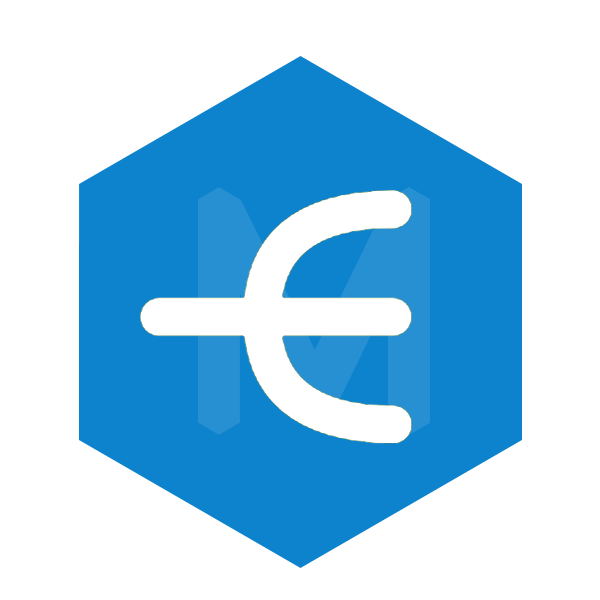
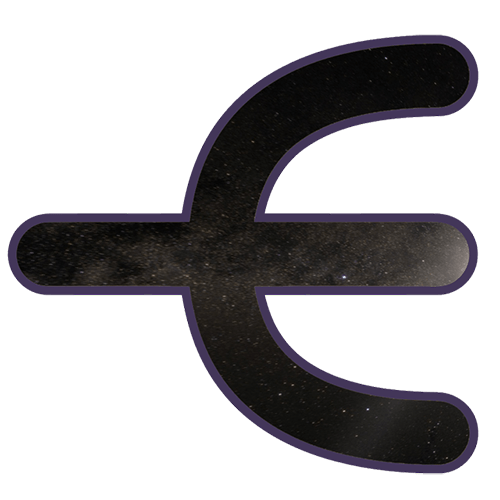
feat: rename extension to Markmap Universe

diff --git a/README.md b/README.md
@@ -1,23 +1,31 @@
-<img src="https://raw.githubusercontent.com/markmap-universe/logo/master/hexo-markmap-logo.png" alt="Hexo logo" width="100" height="100" align="right" />
+<img src="https://raw.githubusercontent.com/markmap-universe/logo/master/universe.png" alt="Markmap Universe logo" width="100" height="100" align="right" />
 
-# Markdown Preview Hexo Markmap Support
+# VS Code Markmap Universe
 
-[![Version](https://img.shields.io/visual-studio-marketplace/v/maxchang.vscode-hexo-markmap)](https://marketplace.visualstudio.com/items?itemName=maxchang.vscode-hexo-markmap) [![Installs](https://img.shields.io/visual-studio-marketplace/i/maxchang.vscode-hexo-markmap)](https://marketplace.visualstudio.com/items?itemName=maxchang.vscode-hexo-markmap)
+[![Version](https://img.shields.io/visual-studio-marketplace/v/maxchang.vscode-markmap-universe)](https://marketplace.visualstudio.com/items?itemName=maxchang.vscode-markmap-universe) [![Installs](https://img.shields.io/visual-studio-marketplace/i/maxchang.vscode-markmap-universe)](https://marketplace.visualstudio.com/items?itemName=maxchang.vscode-markmap-universe)
 
-Add [hexo-markmap](https://github.com/maxchang3/hexo-markmap/) preview support to VS Code's built-in markdown preview.
+Use mindmap in VS Code's built-in Markdown preview with markmap, seamlessly supporting both `hexo-markmap` tags and `markmap` code blocks.
 
-## Features
+## Features  
 
-- Preview support to VS Code's built-in markdown preview.
-- Syntax highlighting for `hexo-markmap` tags.
-- Folding support for `hexo-markmap` tags.
-- Render `markmap` code blocks directly in the markdown preview.
-  - Supports frontmatter options compatible with [remark-markmap](https://github.com/markmap-universe/remark-markmap).
+- **Real-time Markmap Preview**
+- **`hexo-markmap` Tag Support**:  
+  - Recognize `{% markmap %}...{% endmarkmap %}` syntax.  
+  - Provide folding for `hexo-markmap` tags. 
+- **Code Block Support**: 
+  - Render fenced code blocks with the `markmap` language identifier.  
+- **Customizable Preview**:  
+  - Adjust styles and options via frontmatter.  
+  - Compatible with [remark-markmap](https://github.com/markmap-universe/remark-markmap#frontmatter-options) and [hexo-markmap](https://github.com/markmap-universe/hexo-markmap#options).  
+- **Syntax highlighting**: <small>(Still have some issues)</small>
+  - Highlight Markmap frontmatter and Markdown content. 
 
 ![](res/preview.png)
 
 
 ## Usage
+
+### `hexo-markmap` Tags
 
 ```markdown
 {% markmap %}
@@ -34,4 +42,19 @@ options:
 {% endmarkmap %}
 ```
 
-See [hexo-markmap documentation](https://github.com/markmap-universe/hexo-markmap#usage) for more details.
+### Code Block
+
+````markdown
+```markmap
+---
+style: |
+  #${id} {
+    height: 300px;
+  }
+options:
+  colorFreezeLevel: 2
+---
+# Markdown
+# Syntax
+```
+````
